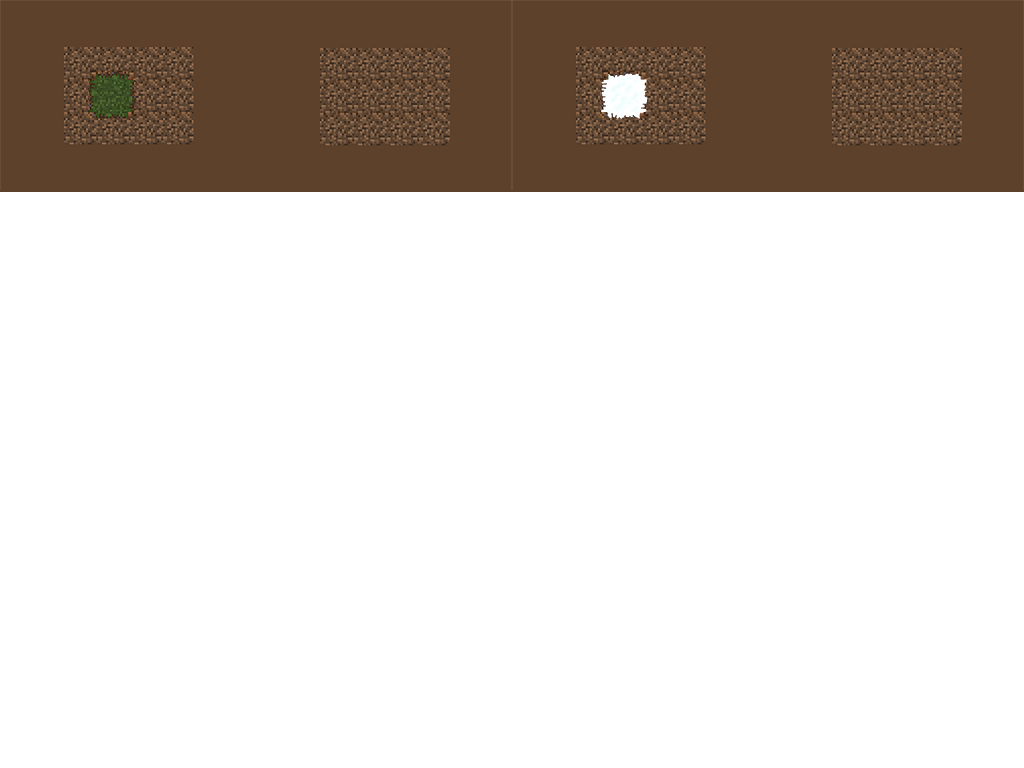
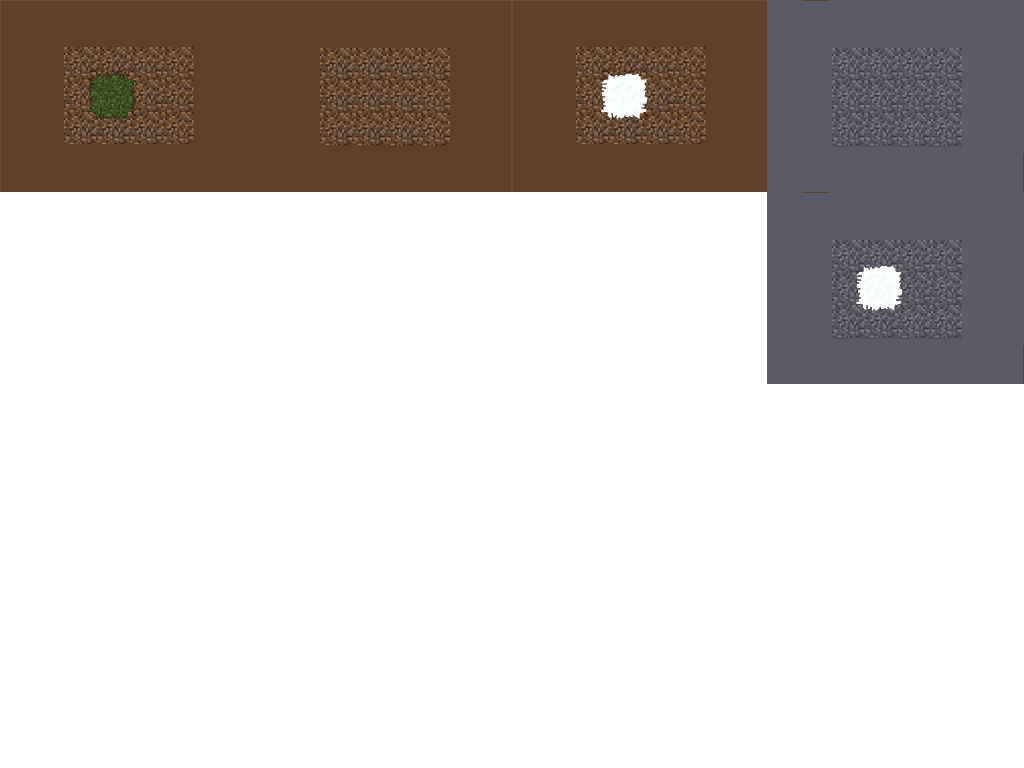
dev

Changed region(s): [[0.75, 0.0, 1.0, 0.5]]

diff --git a/src/babylon/materials.ts b/src/babylon/materials.ts
@@ -4,6 +4,7 @@ import {
     Texture, Vector2, PBRMaterial,
 } from '@babylonjs/core'
 import { PBRCustomMaterial } from '@babylonjs/materials'
+import { MapBlock } from '@/data/worldDataManager'
 
 export interface PBRBasicAtts {
     metallic: number
@@ -49,7 +50,6 @@ export const Materials = {
 
     createBlockMatAlpha1(scene: Scene): PBRCustomMaterial {
         const material = this.getPBRCustomMaterial(scene, "sym_block_mats_alpha1", this.BASE_PATH, 'block_materials_alpha1.png', 1 / 8, 1 / 8, true)
-        material.alpha = 0.5
         return material
     },
 
@@ -95,8 +95,8 @@ export const Materials = {
         mat.environmentIntensity = options.environmentIntensity
         mat.usePhysicalLightFalloff = false;
         if (hasAlpha) {
-            mat.transparencyMode = PBRMaterial.PBRMATERIAL_ALPHATEST;
-            mat.alphaCutOff = 0.4;
+            mat.transparencyMode = PBRMaterial.PBRMATERIAL_ALPHATEST //  PBRMATERIAL_ALPHATESTANDBLEND
+            mat.alphaCutOff = 0.75;
         }
 
         mat.AddAttribute("uvc");
@@ -154,18 +154,36 @@ export const MaterialEnum1 = {
 
 export const TerrainEnum1 = {
     TERRAIN_DIRT: new MaterialEnum(1, new Vector2(2.5, 6.5)),
-    TERRAIN_GRASS: new MaterialEnum(2, new Vector2(4.5, 6.5)),
+    TERRAIN_GRASS: new MaterialEnum(2, new Vector2(0.5, 6.5)),
+    TERRAIN_ROCK: new MaterialEnum(3, new Vector2(6.5, 6.5)),
 
-    getTerrainByIndex(index: number): Vector2 {
-        return Object.values(TerrainEnum1).find(item => item.index === index)?.uv;
+    TERRAIN_SNOW_DIRT: new MaterialEnum(101, new Vector2(4.5, 6.5)),
+    TERRAIN_SNOW_GRASS: new MaterialEnum(102, new Vector2(4.5, 6.5)),
+    TERRAIN_SNOW_ROCK: new MaterialEnum(103, new Vector2(6.5, 4.5)),
+
+    getTerrainForBlock(block: MapBlock): Vector2 {
+        let type = block.type;
+        if (block.snowed) {
+            type += 100;
+        }
+        return Object.values(TerrainEnum1).find(item => item.index === type)?.uv;
     }
 }
 
 export const PlaneEnum1 = {
     PLANE_DIRT: new MaterialEnum(1, new Vector2(2.5, 6.5)),
-    PLANE_GRASS: new MaterialEnum(2, new Vector2(4.5, 6.5)),
+    PLANE_GRASS: new MaterialEnum(2, new Vector2(0.5, 6.5)),
+    PLANE_ROCK: new MaterialEnum(3, new Vector2(6.5, 6.5)),
 
-    getPlaneByIndex(index: number): Vector2 {
-        return Object.values(PlaneEnum1).find(item => item.index === index)?.uv;
+    PLANE_SNOW_DIRT: new MaterialEnum(101, new Vector2(4.5, 6.5)),
+    PLANE_SNOW_GRASS: new MaterialEnum(102, new Vector2(4.5, 6.5)),
+    PLANE_SNOW_ROCK: new MaterialEnum(103, new Vector2(4.5, 6.5)),
+
+    getPlaneForBlock(block: MapBlock): Vector2 {
+        let type = block.type;
+        if (block.snowed) {
+            type += 100;
+        }
+        return Object.values(PlaneEnum1).find(item => item.index === type)?.uv;
     }
 }

diff --git a/src/utils/minimap.ts b/src/utils/minimap.ts
@@ -10,6 +10,7 @@ export const MiniMap = {
     minHeight: 6,
     maxHeight: 32,
     grassColorMap: [] as string[],
+    snowColorMap: [] as string[],
 
     initialize() {
         //const blockMap: MapBlock[][] = WorldDataManager.getBlockMap()
@@ -25,6 +26,10 @@ export const MiniMap = {
             const brightness = (height - this.minHeight) / (this.maxHeight - this.minHeight)
             const greenValue = Math.round(102 + brightness * (255 - 102))
             this.grassColorMap[height] = `#00${greenValue.toString(16).padStart(2, '0')}00`
+
+            // snow goes from light gray to white
+            const snowValue = Math.round(128 + brightness * (255 - 128))
+            this.snowColorMap[height] = `#${snowValue.toString(16).padStart(2, '0')}${snowValue.toString(16).padStart(2, '0')}${snowValue.toString(16).padStart(2, '0')}`
         }
     },
 
@@ -35,6 +40,7 @@ export const MiniMap = {
 
         const dirtColor = "#8B4513"
         const waterColor = "#2222BB"
+        const rockColor = "#666666"
 
         //console.log("Add chunk to minimap...")
 
@@ -45,14 +51,21 @@ export const MiniMap = {
                 const data = (blockMap[z][x] as string).split(":")
                 const height = parseInt(data[0])
                 const type = parseInt(data[1])
+                const snowed  = data[3] === "S"
 
                 if (height < 6) {
                     offScreenContext.fillStyle = waterColor
                 } else {
                     offScreenContext.fillStyle = dirtColor
 
-                    if (type === 2) {
-                        offScreenContext.fillStyle = this.grassColorMap[height]
+                    if (snowed) {
+                        offScreenContext.fillStyle = this.snowColorMap[height]
+                    } else {
+                        if (type === 2) {
+                            offScreenContext.fillStyle = this.grassColorMap[height]
+                        } else if (type === 3) {
+                            offScreenContext.fillStyle = rockColor
+                        }
                     }
                 }
                 offScreenContext.fillRect(mapChunk.z + x, mapChunk.x + z, 1, 1)

diff --git a/src/data/worldDataManager.ts b/src/data/worldDataManager.ts
@@ -78,9 +78,16 @@ export class WorldData {
                 this.blockMap[mapChunk.x + i][mapChunk.z + j] = mapBlock
 
                 // Planes are marked with "P" at the end
-                if (data.length === 3 && data[2] === "P") {
+                if (data[2] === "P") {
                     this.planeBlockMap[mapChunk.x + i][mapChunk.z + j] = mapBlock
                 }
+
+                // Snowed blocks are marked with "S" at the end
+                if (data[3] === "S") {
+                    mapBlock.snowed = true
+                }
+
+                mapBlock.presetHeightOffset()
             }
         }
         this.loadedChunkCoords.push(new Vector3(mapChunk.x, 0, mapChunk.z))
@@ -96,19 +103,27 @@ export class MapBlock {
     type: number
     heightOffset: number
     totalHeight: number
+    snowed: boolean = false
 
     constructor(height: number, type: number) {
         this.height = height
         this.type = type
+
+    }
+
+    presetHeightOffset() {
         this.heightOffset = this.getRenderedHeightOffset()
         this.totalHeight = this.height + this.heightOffset
     }
 
     getRenderedHeightOffset() {
-        return this.type === 2 ? 0.1 : 0
+        if (this.type === 2 || this.snowed) {
+            return  0.1
+        }
+        return 0
     }
 
     equals(other: MapBlock) {
-        return this.height === other.height && this.type === other.type
+        return this.height === other.height && this.type === other.type && this.snowed === other.snowed
     }
 }

diff --git a/src/babylon/world/terrainManager.ts b/src/babylon/world/terrainManager.ts
@@ -66,14 +66,12 @@ export const TerrainManager = {
                     if (planeBlockMap[x][z]) {
                         const matrix = Matrix.Translation( x, block.height + heightOffset, z);
                         planeMatrices.push(matrix)
-                        planeUvData.push(PlaneEnum1.getPlaneByIndex(planeBlockMap[x][z].type))
-                        //console.log("plane at ", x, z)
+                        planeUvData.push(PlaneEnum1.getPlaneForBlock(planeBlockMap[x][z]))
                     } else {
                         const scaleMatrix = Matrix.Scaling(1, 1 + heightOffset, 1);
                         const matrix = scaleMatrix.multiply(Matrix.Translation( x, block.height + heightOffset * 0.5, z));
                         terrainMatrices1.push(matrix)
-                        terrainUvData1.push(TerrainEnum1.getTerrainByIndex(block.type))
-                        //console.log("terrain at ", x, z)
+                        terrainUvData1.push(TerrainEnum1.getTerrainForBlock(block))
                     }
                 }
             }

diff --git a/src/babylon/character/myPlayer.ts b/src/babylon/character/myPlayer.ts
@@ -63,9 +63,14 @@ export const MyPlayer = {
                 Connector.sendMoveMessage(new MyCharMoveMsg())
             }
 
-            Data.myChar.pos.x = tgtPos.x
-            Data.myChar.pos.z = tgtPos.z
-            Data.myChar.logicYpos = this.calculateYPos()
+            if (tgtPos.x < 1 || tgtPos.z < 1 || tgtPos.x > WorldDataManager.worldDataMap.get(Data.worldId)!.worldSize - 2 || tgtPos.z > WorldDataManager.worldDataMap.get(Data.worldId)!.worldSize - 2) {
+                tgtPos = new Vector3(Data.myChar.pos.x, 0, Data.myChar.pos.z)
+                this.setMoveAngleAndSpeed(0, 0)
+            } else {
+                Data.myChar.pos.x = tgtPos.x
+                Data.myChar.pos.z = tgtPos.z
+                Data.myChar.logicYpos = this.calculateYPos()
+            }
 
             if (this.movementType === 'RUN') { this.charModel?.startRunAnimation() }
             if (this.movementType === 'WALK') { this.charModel?.startWalkAnimation() }

diff --git a/src/babylon/scene/renderer.ts b/src/babylon/scene/renderer.ts
@@ -65,7 +65,7 @@ export const Renderer = {
 
         this.animationSpeedRatio = this.animationFrameTime / 25
         this.sunLight = new DirectionalLight("sunLight", new Vector3(-0.75, -0.75, 0.3), this.scene)
-        this.sunLight.position = new Vector3(50, 50, 50);
+        this.sunLight.position = new Vector3(40, 40, 40);
         this.sunLight.intensity = 1
         this.sunLight.diffuse = new Color3(1, 0.91, 0.74)
 
@@ -249,8 +249,8 @@ export const Renderer = {
         this.scene.autoClearDepthAndStencil = false
 
         this.scene.fogMode = Scene.FOGMODE_LINEAR
-        this.scene.fogStart = 10
-        this.scene.fogEnd = 50
+        this.scene.fogStart = 25
+        this.scene.fogEnd = 60
         this.scene.fogColor = new Color3(0.2, 0.22, 0.24)
 
         this.setCullingFrequency(this.scene, 50)

diff --git a/src/babylon/world/weather/weatherManager.ts b/src/babylon/world/weather/weatherManager.ts
@@ -7,9 +7,8 @@ import {
     Texture,
     Vector3,
 } from '@babylonjs/core'
-import { Renderer } from '@/babylon/scene/renderer'
-import { Data } from '@/data/globalData'
 import { MyPlayer } from '@/babylon/character/myPlayer'
+import { Renderer } from '@/babylon/scene/renderer'
 export const WeatherManager = {
     actualWeather: null as WeatherEffect | null,
 
@@ -72,10 +71,11 @@ class SnowEffect implements WeatherEffect {
 
         const wind = new Vector3(0.6, 0, -1.5);
         snow.direction1.set(wind.x - 0.4, -1, wind.z - 0.4)
-        snow.direction2.set(wind.x + 0.4, -1, wind.z + 0.4
-        );
+        snow.direction2.set(wind.x + 0.4, -1, wind.z + 0.4)
 
         snow.emitRate = 1000;
+
+        snow.renderingGroupId = 2;
         snow.start();
     }
 
